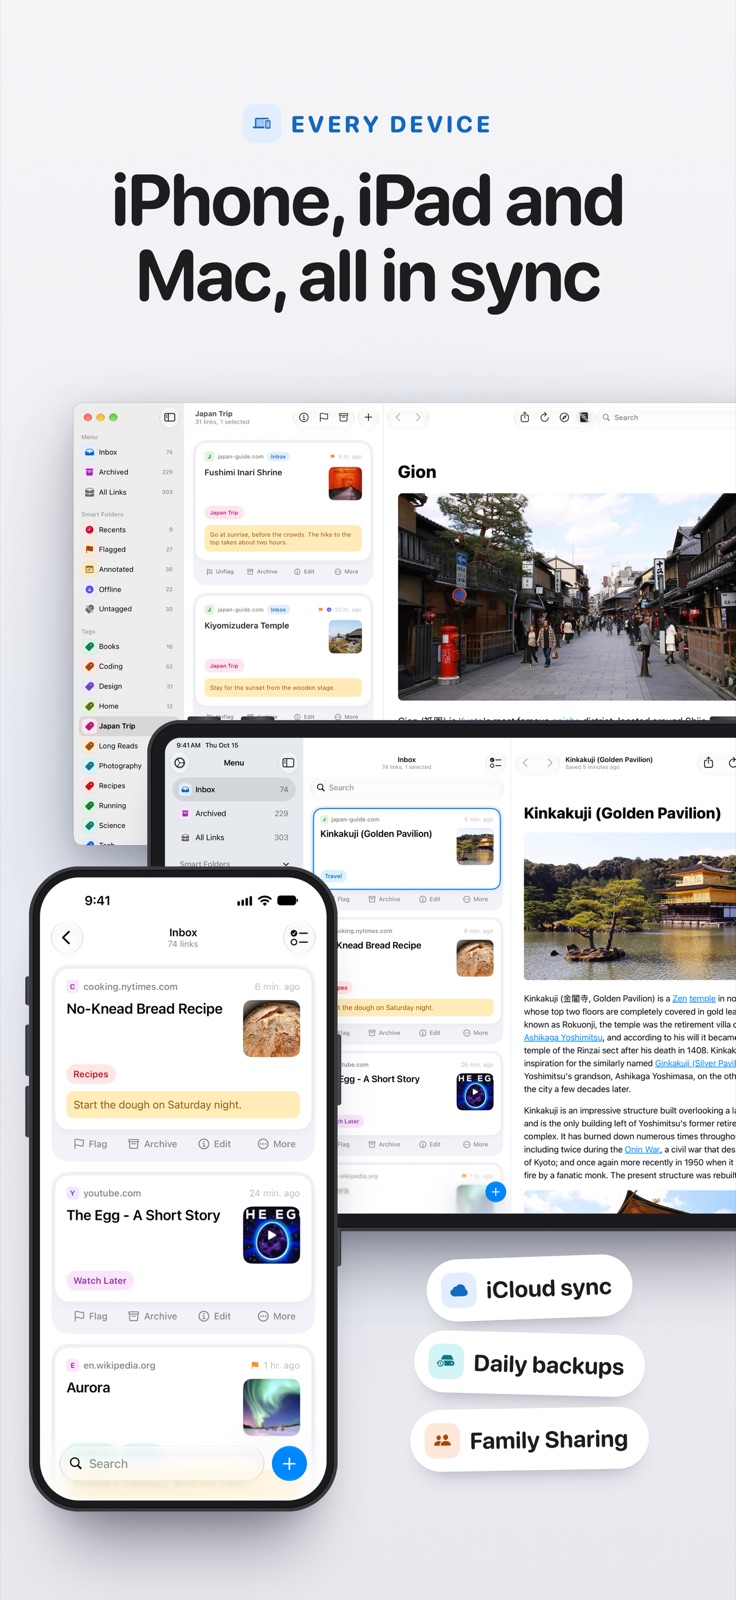
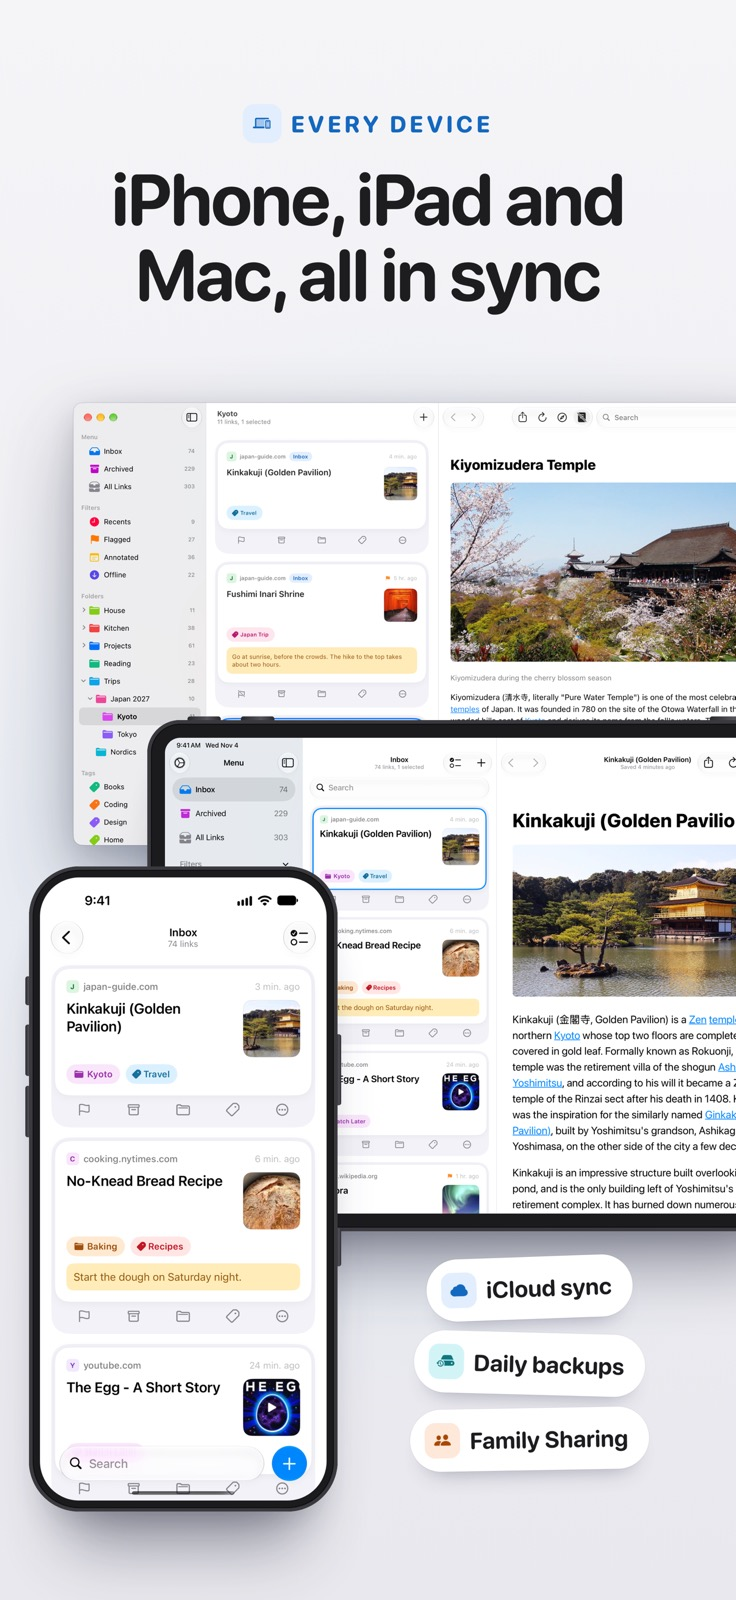
feat: update Later screenshots and add folders feature

diff --git a/later/index.html b/later/index.html
@@ -37,7 +37,7 @@
         <div class="screenshots" role="region" aria-label="Later screenshots" tabindex="0">
           <img src="01-save.jpg" alt="Save everything worth reading: your saved links in Later." width="736" height="1600" fetchpriority="high">
           <img src="02-reader.jpg" alt="Read without distractions: an article open in the reader." width="736" height="1600" loading="lazy">
-          <img src="03-organize.jpg" alt="Tags, flags and smart folders to organize your links." width="736" height="1600" loading="lazy">
+          <img src="03-organize.jpg" alt="Folders, tags, flags and more to organize your links." width="736" height="1600" loading="lazy">
           <img src="04-private.jpg" alt="Private by design: your links never touch our servers." width="736" height="1600" loading="lazy">
           <img src="05-trackers.jpg" alt="Trackers stripped from your links." width="736" height="1600" loading="lazy">
           <img src="06-offline.jpg" alt="Keep reading, even offline." width="736" height="1600" loading="lazy">
@@ -79,6 +79,11 @@
             <span class="feature-icon" aria-hidden="true">🕵♂</span>
             <h3>Remove Trackers</h3>
             <p>By default, when you save a link, Later automatically detects and removes known trackers.</p>
+          </article>
+          <article class="feature">
+            <span class="feature-icon" aria-hidden="true">📁</span>
+            <h3>Folders</h3>
+            <p>Group your saved links into color-coded folders. Nest folders inside each other to keep everything exactly where you expect it.</p>
           </article>
           <article class="feature">
             <span class="feature-icon" aria-hidden="true">🏷</span>
